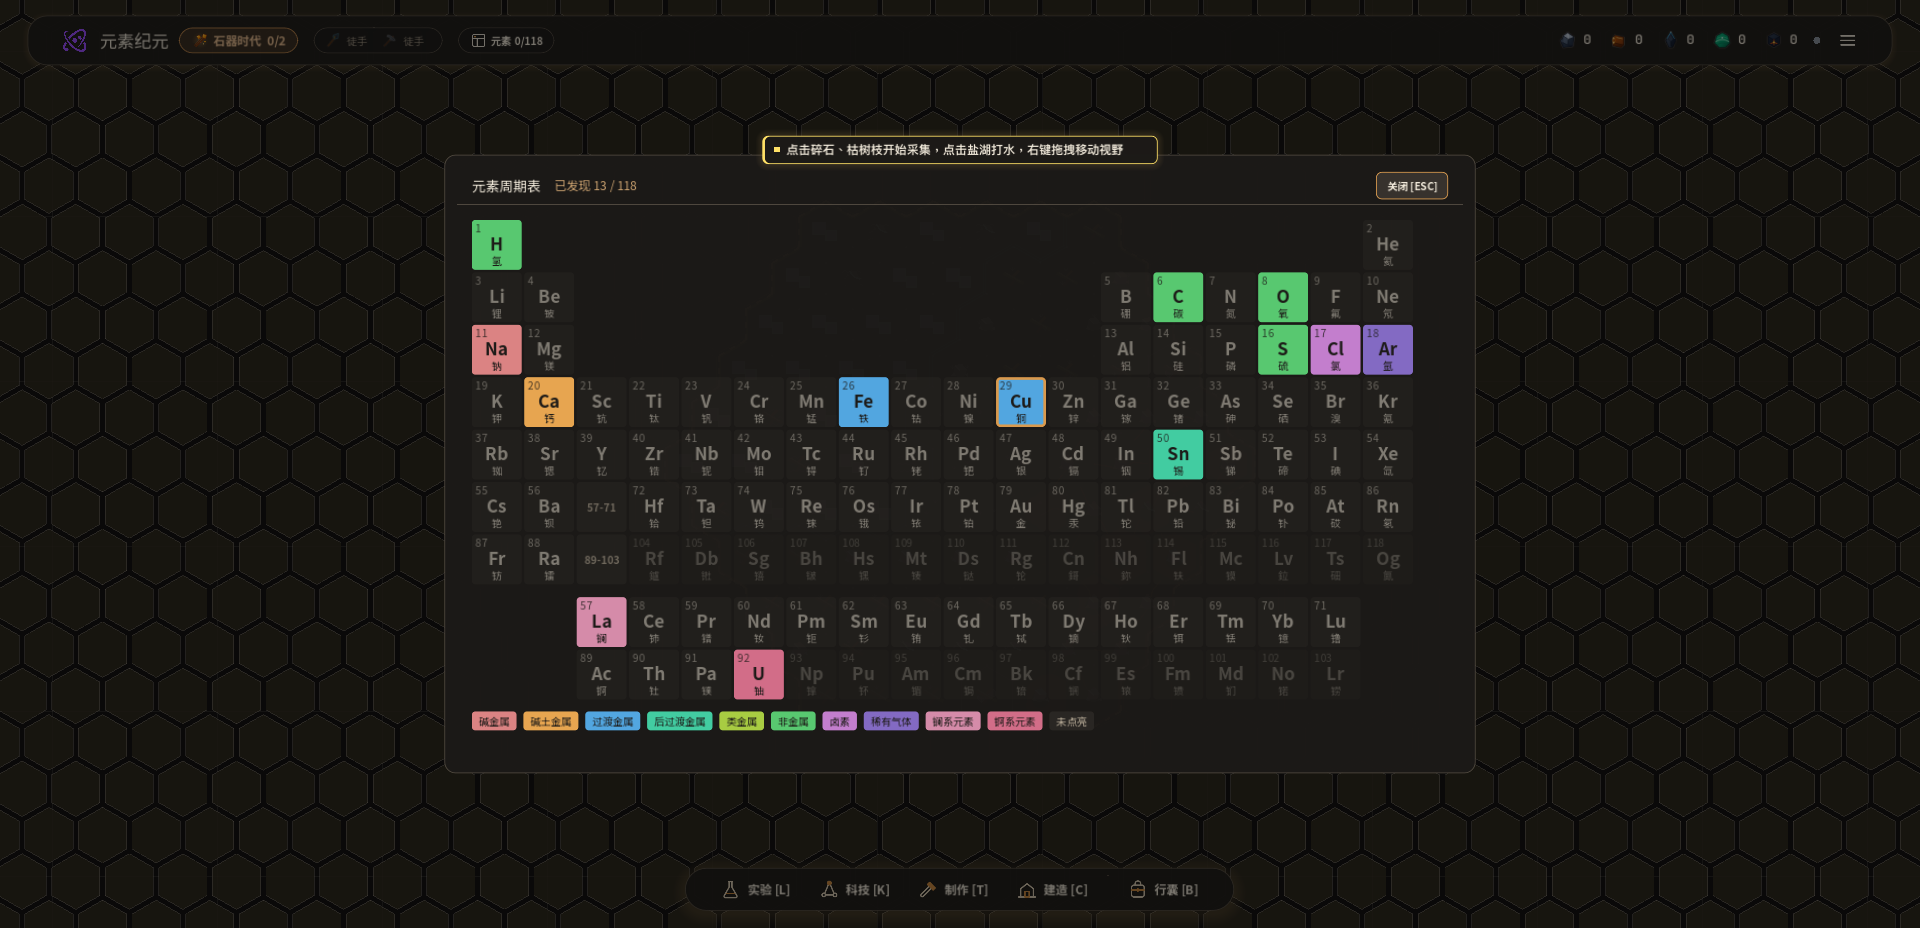
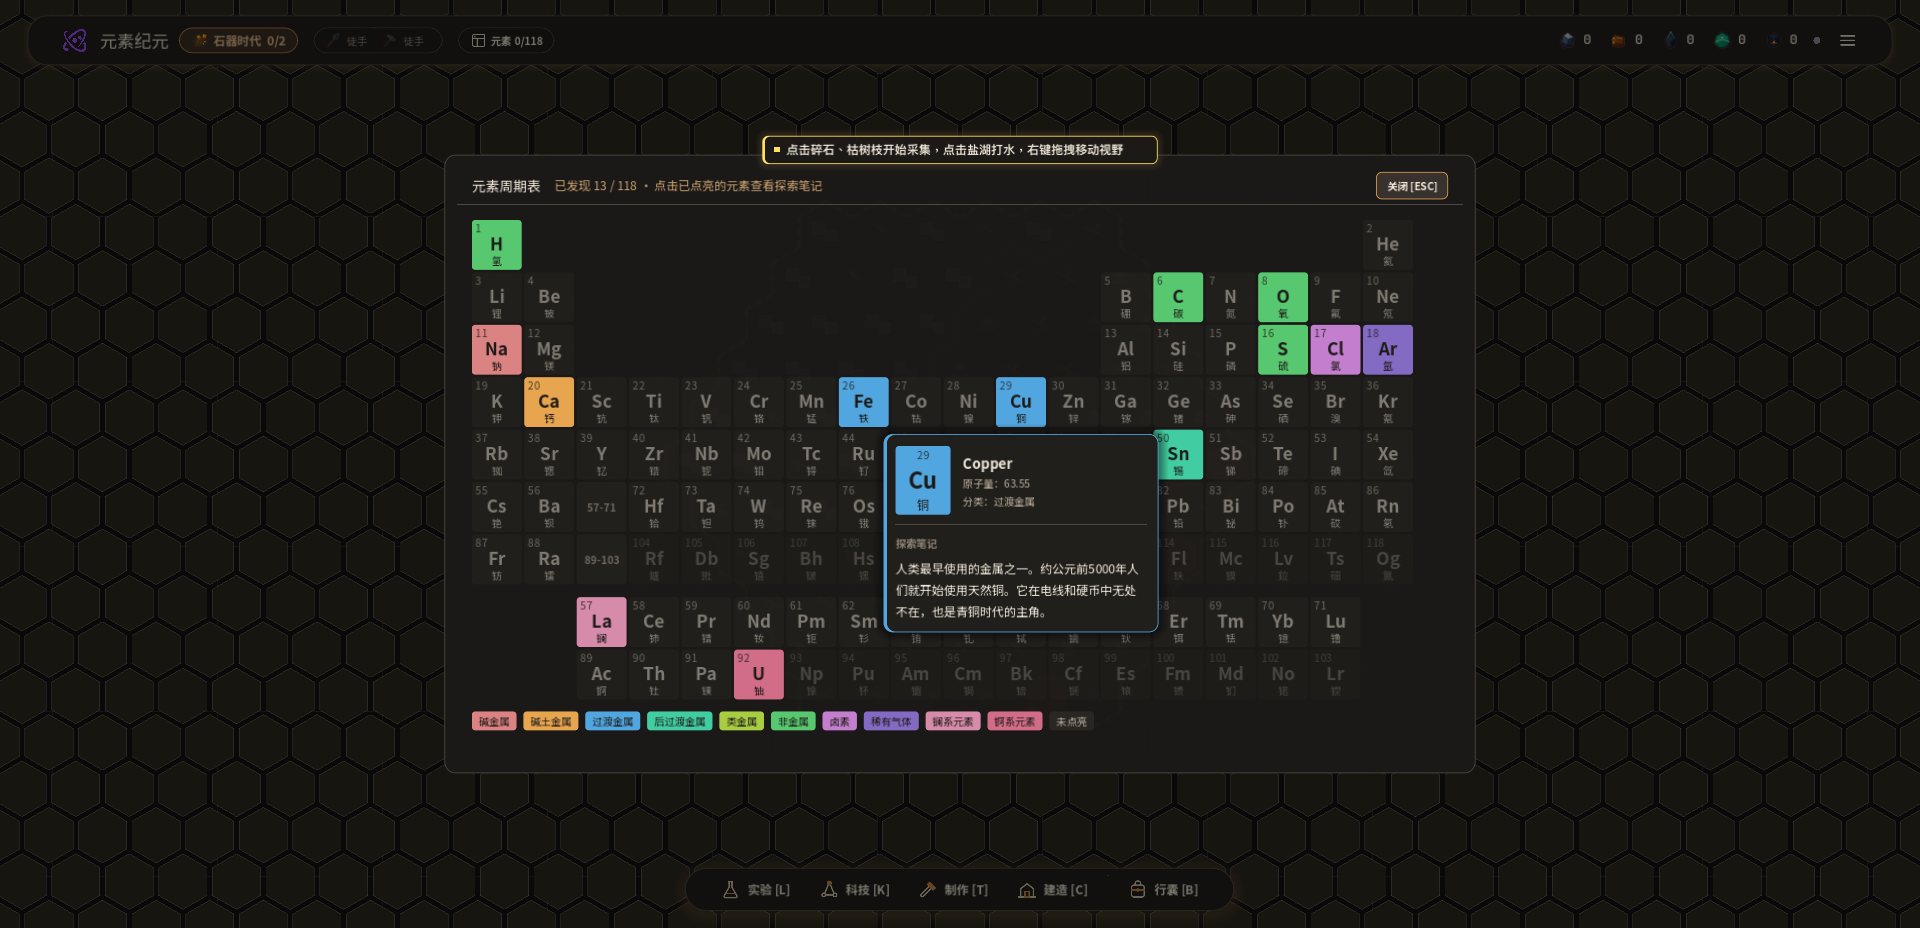
feat(ui): click a lit element to read its story in a popover

Changed region(s): [[0.4375, 0.4375, 0.625, 0.6875], [0.3438, 0.1875, 0.4375, 0.2188]]

diff --git a/AGENTS.md b/AGENTS.md
@@ -1023,7 +1023,8 @@
 - 参考 Web 版 `PeriodicTable.vue`：`periodic_table_modal.gd` 按 `elements.json` 的 `row` / `col` 绝对定位，18 列 × 7 周期，镧系 / 锕系放在下方两行（与主表间隔 12px），主表第 3 列第 6、7 周期为「57-71」「89-103」占位格；
 - 已发现的元素以元素族颜色填充（与元素发现弹窗共用 `CATEGORY_COLORS`），未发现的为灰色：游戏中能获得单质的 45% 透明度，其余 20%；悬停显示序号、符号、中英文名与原子量；底部为元素族图例与「未点亮」；
 - 从元素发现弹窗点「查看周期表 [P]」时，用铜色描边标出刚发现的元素（`open(highlight)`）；
-- 截图场景新增 `--screenshot-periodic`。
+- **元素详情浮窗**（同 Web 版 ExploreView）：点击已点亮的元素，在格子旁弹出详情卡（族色竖条、元素卡、英文名、原子量、分类、「探索笔记」即 `elements.json` 的 `story`）。第 13 列以后向左展开、第 10~12 列居中、第 6 行以后放到格子上方；再点同一格、点空白处或 ESC / 右键收起浮窗，再按一次关闭图鉴。未点亮的元素点击无反应；
+- 截图场景新增 `--screenshot-periodic`、`--screenshot-periodic-story`。
 
 ---
 
@@ -1039,7 +1040,7 @@
 | **物理平滑缩放视野** | **鼠标滚轮滚上 / 滚下** | 0.5x ~ 2.5x；鼠标在弹窗或 HUD 面板上时滚轮只滚动界面，不缩放地图 |
 | **键盘平移巡航** | **`W / A / S / D`** 或 **方向键** | 辅助键盘平移视角 |
 | **行囊物品检视** | **`[B]`** 键或底栏 **【行囊 [B]】** | 展开 10 列密集网格背包与随光标自适应吸附的物性详情浮动卡片 |
-| **118 元素周期表圣殿** | **`[P]`** 键或底栏徽标 | 呼出全景周期表，查看 118 元素点亮进度、化学分类与单质纯度 |
+| **元素图鉴** | **`[P]`** 键或顶栏「元素 N/118」 | 标准周期表布局；点击已点亮的元素查看详情与探索笔记 |
 | **实验台** | **`[L]`** 键或底栏 **【实验 [L]】** | 左侧选操作（可追加集气 / 冷凝）→ 右侧先选容器再放入试剂 → 放燃料点火或接入电池 → 反应后「全部取回」，或在容器内物品上左键取回 1 份、右键取回该物品全部；「手稿」页查看配方线索并一键备料 |
 | **科技树** | **`[K]`** 键或底栏 **【科技 [K]】** | 打开自动分层排布的 40 项科技树；悬停卡片高亮相关连线，右键拖拽平移，顶部按钮跳到各时代 |
 | **随身手工制作抽屉** | **`[T]`** 键或底栏 **【制作 [T]】** | 紧凑卡片自动换行（最多 3 行，滚轮上下滚动）；按类别筛选、可只看能制作的，只列当前时代配方 |
